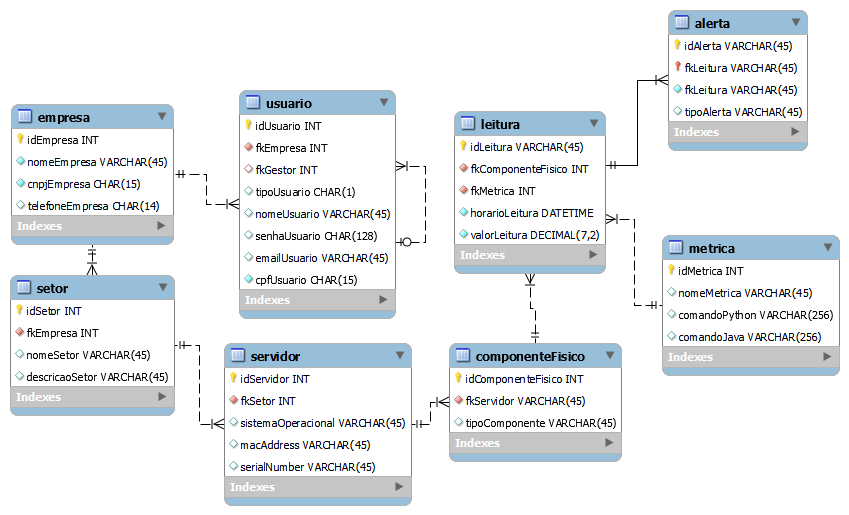
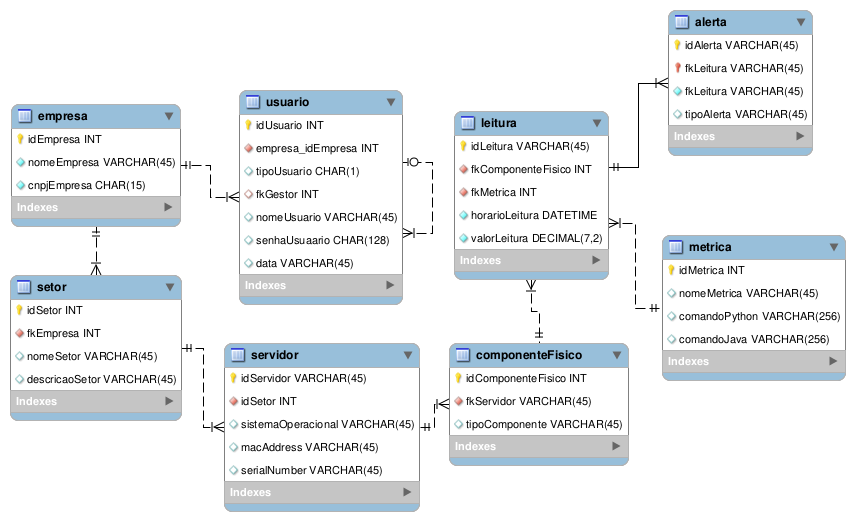
Back-end

diff --git a/Site/src/controllers/usuarioController.js b/Site/src/controllers/usuarioController.js
@@ -28,7 +28,7 @@ function entrar(req, res) {
         res.status(400).send("Sua senha está indefinida!");
     } else {
         
-        usuarioModel.entrar(email, senha)
+        usuarioModel.entrar(email, sha512(senha))
             .then(
                 function (resultado) {
                     console.log(`\nResultados encontrados: ${resultado.length}`);
@@ -55,9 +55,15 @@ function entrar(req, res) {
 }
 
 function cadastrar(req, res) {
-    var nome = req.body.nomeServer;
+    var nome = req.body.nomeSe
+      var nomeEmpresaEmpresa = nomeEmpresa.value;
+      var cpnjEmpresa = cnpj.value;
+      var telefoneEmpresa = telefone.value;rver;
     var email = req.body.emailServer;
     var senha = req.body.senhaServer;
+    var nomeEmpresa = req.body.nomeEmpresaServer;
+    var cnpjEmpresa = req.body.cnpjEmpresaServer;
+    var telefone = req.body.telefoneEmpresaServer;
 
     if (nome == undefined) {
         res.status(400).send("Seu nome está undefined!");
@@ -65,10 +71,16 @@ function cadastrar(req, res) {
         res.status(400).send("Seu email está undefined!");
     } else if (senha == undefined) {
         res.status(400).send("Sua senha está undefined!");
+    } else if (nomeEmpresa == undefined) {
+        res.status(400).send("Seu nome Empresa está undefined!");
+    } else if (cnpjEmpresa == undefined) {
+        res.status(400).send("Seu nome cnpj está undefined!");
+    } else if (telefone == undefined) {
+        res.status(400).send("Seu nome telefone está undefined!");
     } else {
         
         // Passe os valores como parâmetro e vá para o arquivo usuarioModel.js
-        usuarioModel.cadastrar(nome, email, senha)
+        usuarioModel.cadastrar(nome, email, sha512(senha))
             .then(
                 function (resultado) {
                     res.json(resultado);

diff --git a/Site/src/controllers/empresaController.js b/Site/src/controllers/empresaController.js
@@ -1,0 +1,49 @@
+var empresaModel = require("../models/empresaModel");
+var usuarioModel = require("../models/usuarioModel");
+
+var sha512 = require('js-sha512');
+
+function cadastrar(req, res) {
+    var nome = req.body.nomeServer;
+    var email = req.body.emailServer;
+    var senha = req.body.senhaServer;
+    var nomeEmpresa = req.body.nomeEmpresaServer;
+    var cnpjEmpresa = req.body.cpnjEmpresaServer;
+    var telefone = req.body.telefoneEmpresaServer;
+
+    if (nome == undefined) {
+        res.status(400).send("Seu nome está undefined!");
+    } else if (email == undefined) {
+        res.status(400).send("Seu email está undefined!");
+    } else if (senha == undefined) {
+        res.status(400).send("Sua senha está undefined!");
+    } else if (nomeEmpresa == undefined) {
+        res.status(400).send("Seu nome Empresa está undefined!");
+    } else if (cnpjEmpresa == undefined) {
+        res.status(400).send("Seu nome cnpj está undefined!");
+    } else if (telefone == undefined) {
+        res.status(400).send("Seu nome telefone está undefined!");
+    } else {
+        
+        empresaModel.cadastrar(nomeEmpresa,cnpjEmpresa,telefone).then(
+                function (resultado) {
+                    res.json(resultado);
+                    var id = resultado.insertId;
+                    usuarioModel.cadastrar(nome,email,sha512(senha),'gestor',id,'NULL');
+                }
+            ).catch(
+                function (erro) {
+                    console.log(erro);
+                    console.log(
+                        "\nHouve um erro ao realizar o cadastro! Erro: ",
+                        erro.sqlMessage
+                    );
+                    res.status(500).json(erro.sqlMessage);
+                }
+            );
+    }
+}
+
+module.exports = {
+    cadastrar
+}

diff --git a/Site/public/sing-in.html b/Site/public/sing-in.html
@@ -28,9 +28,9 @@
               </div>
               <div class="form-group mb-4">
                 <label for="password">Password</label>
-                <input type="password" name="password" id="password" class="form-control" placeholder="enter your passsword">
+                <input type="password" name="senha" id="senha" class="form-control" placeholder="enter your passsword">
               </div>
-              <input name="login" id="login" class="btn btn-block login-btn" type="button" value="Login">
+              <input name="login" id="login" class="btn btn-block login-btn" type="button" value="Login" onclick="entrar()">
             </form>
             <a href="#!" class="forgot-password-link">Esqueceu sua senha?</a>
             <p class="login-wrapper-footer-text">Não possui conta? <a href="#!" class="text-reset">Cadastre-se aqui</a></p>
@@ -46,5 +46,32 @@
   <script src="https://code.jquery.com/jquery-3.4.1.min.js"></script>
   <script src="https://cdn.jsdelivr.net/npm/popper.js@1.16.0/dist/umd/popper.min.js"></script>
   <script src="https://stackpath.bootstrapcdn.com/bootstrap/4.4.1/js/bootstrap.min.js"></script>
+
+  <script>
+
+    function entrar() {
+      var emailPessoa = email.value;
+      var senhaPessoa = senha.value;
+
+      fetch(`/usuarios/autenticar`, {
+        method: 'POST',
+        headers: {
+          "Content-Type": "application/json"
+        },
+        body: JSON.stringify({
+          emailServer: emailPessoa,
+          senhaServer: senhaPessoa
+        })
+      }).then(function (response) {
+        console.log('Resposta: ', response);
+        if (response.ok) {
+          window.location.href = "../dashboard/index.html";
+        }
+      });
+    }
+
+
+  </script>
 </body>
+
 </html>

diff --git a/Site/public/index.html b/Site/public/index.html
@@ -81,9 +81,9 @@
             </div>
         </div>
         <!-- Texto do Meio no Início -->
-        <div class="container-fluid h-auto pb-5">
+        <div class="container-fluid h-auto pb-5 ">
             <div class="container row mx-auto p-0 d-flex align-items-md-center justify-content-between w-75 pb-md-5">
-                <div class="col pt-0 d-flex flex-column align-items-center justify-content-between text-center text-container"
+                <div class="jump1 col pt-0 d-flex flex-column align-items-center justify-content-between text-center text-container"
                     style="margin-top: 100px">
                     <p class="h1 m-0 mb-4 fw-bolder text-dark">Rabbit Monitoring System</p>
                     <p class="h5 mb-4 fw-bold subtitle text-dark">Basta abrir para você transformar a realidade</p>
@@ -91,7 +91,7 @@
                         principais informações do seu hardware, permitindo o seu monitoramento utilizando o nosso site
                     </p>
                     <div class="row d-flex justify-content-evenly align-items-center" style="width: 50% !important;">
-                        <button class="cadastrar-button btn fw-semibold">Começar</button>
+                        <button onclick="redirecionar()" class="cadastrar-button btn fw-semibold">Começar</button>
                     </div>
                 </div>
             </div>
@@ -472,6 +472,10 @@
         }
 
     }
+
+function redirecionar(){
+    window.location.href= "./sing-up.html";
+}
 
 </script>
 

diff --git a/Site/public/sing-up.html b/Site/public/sing-up.html
@@ -90,7 +90,13 @@
     function cadastrar() {
 
       var nomePessoa = nome.value;
-      fetch(`usuarios/cadastrar`, {
+      var emailPessoa = email.value;
+      var senhaPessoa = senha.value;
+      var nomeEmpresaEmpresa = nomeEmpresa.value;
+      var cpnjEmpresa = cnpj.value;
+      var telefoneEmpresa = telefone.value;
+
+      fetch(`/empresa/cadastrar`, {
         method: 'POST',
         headers: {
           "Content-Type": "application/json"
@@ -101,13 +107,12 @@
           senhaServer: senhaPessoa,
           nomeEmpresaServer: nomeEmpresaEmpresa,
           cpnjEmpresaServer: cpnjEmpresa,
-          telefoneEmpresaServer: telefoneEmpresa,
-
+          telefoneEmpresaServer: telefoneEmpresa
         })
       }).then(function (response) {
         console.log('Resposta: ', response);
-        if(response.ok){
-          alert("C")
+        if (response.ok) {
+          window.location.href = "./sing-in.html";
         }
       });
     }

diff --git a/Site/src/models/usuarioModel.js b/Site/src/models/usuarioModel.js
@@ -8,12 +8,12 @@ function listar() {
 }
 
 function entrar(email, senha) {
-    var instrucao = `SELECT * FROM usuario WHERE email = '${email}' AND senha = '${senha}';`;
+    var instrucao = `SELECT * FROM usuario WHERE emailUsuario = '${email}' AND senhaUsuario = '${senha}';`;
     return database.executar(instrucao);
 }
 
-function cadastrar(nome,senha,email,cpf,tipoUsuario,fkEmpresa,fkGestor) {
-    var instrucao = `INSERT INTO usuario (nomeUsuario, emailUsuario, senhaUsuario,cpfUsuario,tipoUsuario,fkEmpresa,fkGestor) VALUES ('${nome}','${cpf}', '${email}', '${senha}', '${tipoUsuario}','${fkEmpresa}','${fkGestor}');`;
+function cadastrar(nome,email,senha,tipoUsuario,fkEmpresa,fkGestor) {
+    var instrucao = `INSERT INTO usuario (nomeUsuario, emailUsuario, senhaUsuario,tipoUsuario,fkEmpresa,fkGestor) VALUES ('${nome}','${email}','${senha}','${tipoUsuario}','${fkEmpresa}',${fkGestor});`;
     return database.executar(instrucao);
 }
 

diff --git a/Site/app.js b/Site/app.js
@@ -10,6 +10,7 @@ var app = express();
 
 var indexRouter = require("./src/routes/index");
 var usuarioRouter = require("./src/routes/usuarios");
+var empresaRouter = require("./src/routes/empresa");
 
 app.use(express.json());
 app.use(express.urlencoded({ extended: false }));
@@ -19,6 +20,8 @@ app.use(cors());
 
 app.use("/", indexRouter);
 app.use("/usuarios", usuarioRouter);
+app.use("/empresa", empresaRouter);
+
 
 app.listen(PORTA, function () {
     console.log(`Servidor do seu site já está rodando! Acesse o caminho a seguir para visualizar: http://localhost:${PORTA} \n

diff --git a/Site/public/assets/css/index-style.css b/Site/public/assets/css/index-style.css
@@ -330,6 +330,9 @@ ul.carrossel-list li:not(.selected):hover {
     margin-top: 5%;
 }
 
+.jump1{
+    margin-bottom: 10%;
+}
 
 .planos{
     display: flex;
@@ -425,3 +428,13 @@ ul.carrossel-list li:not(.selected):hover {
     font-size:13px;
     opacity:0.6;
   }
+
+
+  @keyframes animation {
+	to{
+		opacity: 1;
+	}
+	from{
+		opacity: 0;
+	}
+}

diff --git a/Site/src/routes/usuarios.js b/Site/src/routes/usuarios.js
@@ -3,9 +3,6 @@ var router = express.Router();
 
 var usuarioController = require("../controllers/usuarioController");
 
-router.get("/", function (req, res) {
-    usuarioController.testar(req, res);
-});
 
 router.get("/listar", function (req, res) {
     usuarioController.listar(req, res);

diff --git a/Site/src/routes/empresa.js b/Site/src/routes/empresa.js
@@ -1,0 +1,10 @@
+var express = require("express");
+var router = express.Router();
+
+var empresaController = require("../controllers/empresaController");
+
+router.post("/cadastrar", function (req, res) {
+    empresaController.cadastrar(req, res);
+})
+
+module.exports = router;

diff --git a/Site/src/database/config.js b/Site/src/database/config.js
@@ -21,8 +21,8 @@ var sqlServerConfig = {
 var mySqlConfig = {
     host: "localhost",
     database: "bolsa",
-    user: "root",
-    password: "Alfajor12",
+    user: "aluno",
+    password: "sptech",
 };
 
 function executar(instrucao) {

diff --git a/Site/src/models/empresaModel.js b/Site/src/models/empresaModel.js
@@ -13,7 +13,6 @@ function cadastrar(nome,cnpj,telefone) {
 }
 
 module.exports = {
-    entrar,
     cadastrar,
     listar,
 };
